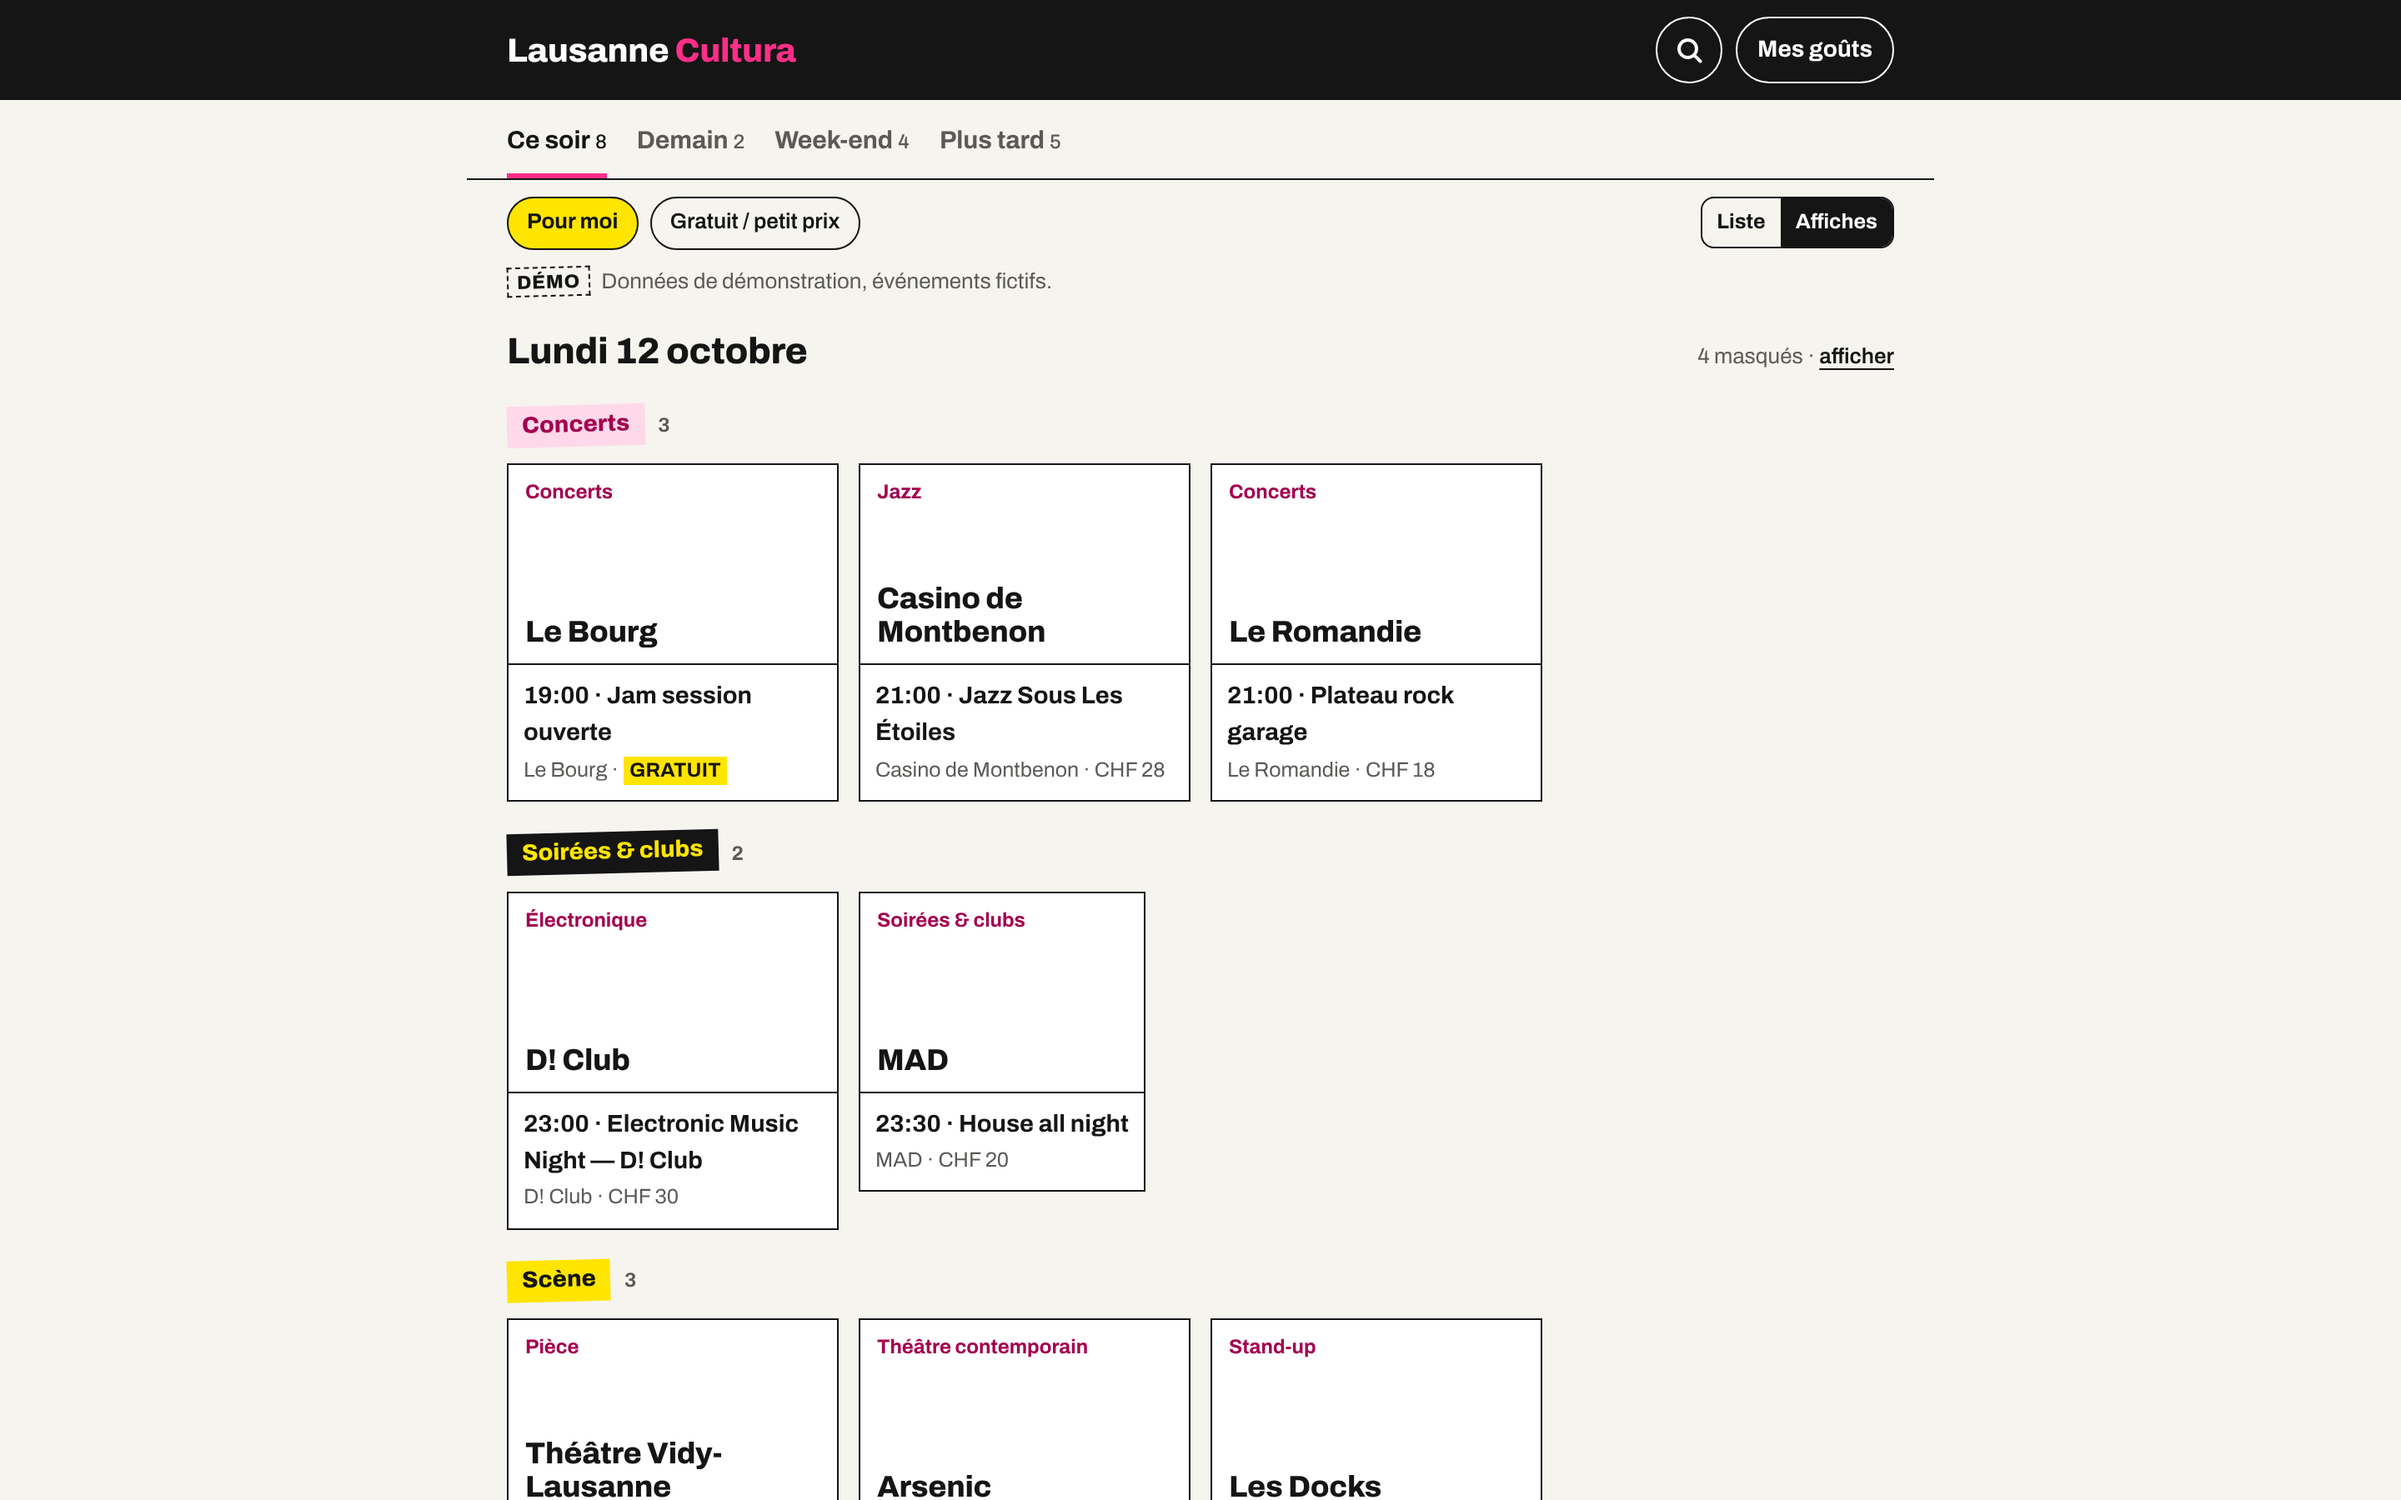
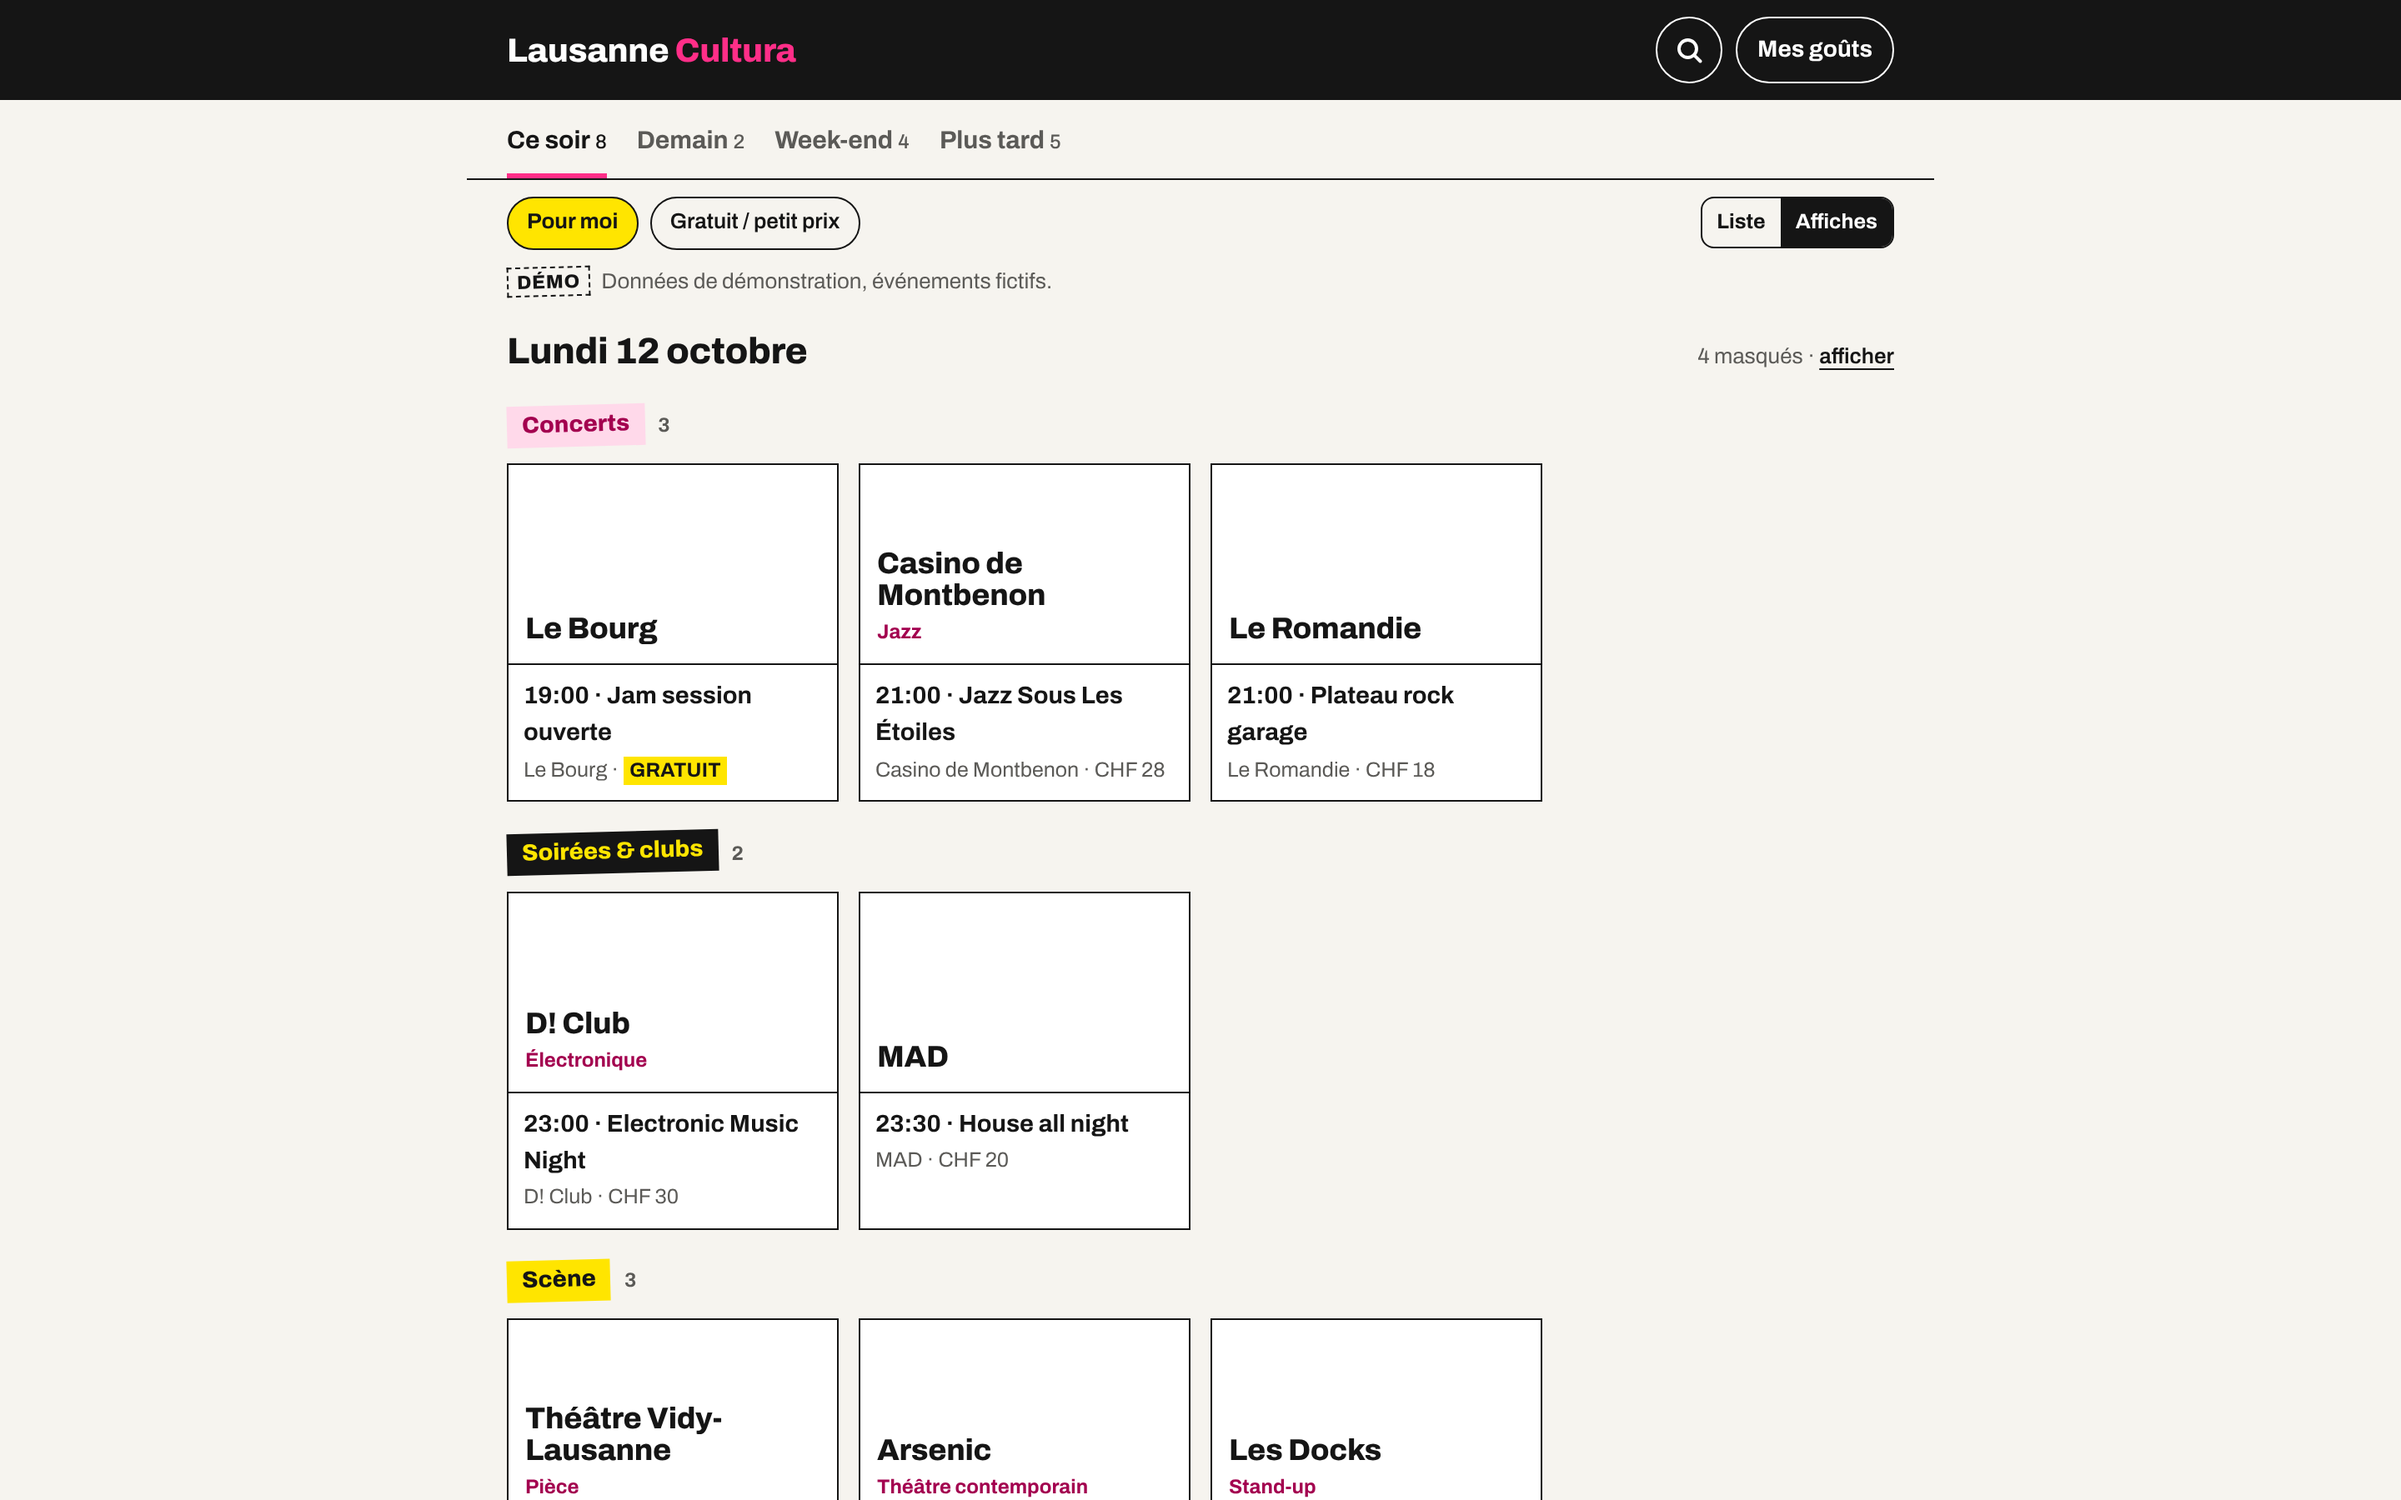
Apply finish-review fixes: tiles fill columns, no eyebrow labels, self-hosted Archivo
- Poster tiles fill their column; photo-less tiles show venue then genre,
  no repeated rubric name.
- Event sheet: rubric moved into the facts table, title leads.
- Onboarding dismiss renamed "Pas maintenant" (was the same label as a tab).
- Demo titles no longer repeat the venue.
- Archivo served from static/fonts (OFL), no Google Fonts dependency.

Claude-Session: https://claude.ai/code/session_01NBweYVRMbeyNvkuA8wfwBv

diff --git a/static/css/style.css b/static/css/style.css
@@ -1,6 +1,21 @@
 /* Lausanne Cultura : programme du moment.
    Fond clair, encre noire, barre noire, rose et jaune en étiquettes. */
 
+@font-face {
+    font-family: 'Archivo';
+    src: url('../fonts/archivo-latin.woff2') format('woff2');
+    font-weight: 400 800;
+    font-style: normal;
+    font-display: swap;
+}
+@font-face {
+    font-family: 'Archivo';
+    src: url('../fonts/archivo-italic-latin.woff2') format('woff2');
+    font-weight: 400;
+    font-style: italic;
+    font-display: swap;
+}
+
 :root {
     --ground: #f6f4ef;
     --paper: #ffffff;
@@ -235,6 +250,7 @@ ul { list-style: none; }
     gap: 10px; padding: 6px var(--gutter) 6px;
 }
 .tile {
+    width: 100%; height: 100%;
     display: flex; flex-direction: column; text-align: left;
     background: var(--paper); border: 1.5px solid var(--ink); min-width: 0;
 }
@@ -250,9 +266,9 @@ ul { list-style: none; }
 }
 .media.type {
     background: var(--paper); display: flex; flex-direction: column;
-    justify-content: space-between; padding: 8px 10px;
+    justify-content: flex-end; padding: 8px 10px 10px;
 }
-.media.type .k { display: block; font-size: 12px; font-weight: 700; color: var(--rose-ink); }
+.media.type .k { display: block; font-size: 12px; font-weight: 700; color: var(--rose-ink); margin-top: 3px; }
 .media.type .k::first-letter { text-transform: uppercase; }
 .media.type .vn { font-weight: 800; font-size: 18px; line-height: 1.1; letter-spacing: -0.01em; overflow-wrap: anywhere; }
 .tile-body { padding: 7px 9px 9px; display: block; }
@@ -328,7 +344,8 @@ ul { list-style: none; }
 .close-btn:hover { background: var(--paper); }
 
 .sheet-title, .ev-title { font-size: 24px; font-weight: 800; letter-spacing: -0.01em; line-height: 1.15; padding-right: 44px; }
-.ev-title { margin-top: 10px; }
+.ev-title { margin-top: 0; }
+.ev-facts dd .tag { font-size: 13px; }
 .sheet-lede { color: var(--muted); font-size: 14px; margin-top: 4px; }
 .sheet-sub { font-size: 15px; font-weight: 800; margin: 18px 0 8px; }
 

diff --git a/static/js/main.js b/static/js/main.js
@@ -196,10 +196,10 @@
     }
 
     function tileItem({ evt, masked }) {
-        const typeLabel = evt.subcategory && evt.subcategory.length <= 22 ? evt.subcategory : evt.rubric;
+        const genre = evt.subcategory && evt.subcategory.length <= 22 ? evt.subcategory : '';
         const typeMedia = () => h('span', { class: 'media type' },
-            h('span', { class: 'k' }, typeLabel),
-            h('span', { class: 'vn' }, venueText(evt)));
+            h('span', { class: 'vn' }, venueText(evt)),
+            genre ? h('span', { class: 'k' }, genre) : null);
         let media;
         if (evt.image) {
             const img = h('img', { src: evt.image, alt: '', loading: 'lazy', decoding: 'async' });
@@ -475,9 +475,9 @@
             : null;
 
         $('#sheet-body').replaceChildren(
-            h('span', { class: `tag ${tagClass(evt.rubric)}` }, evt.rubric),
             h('h2', { class: 'ev-title', id: 'sheet-title' }, evt.title),
             h('dl', { class: 'ev-facts' },
+                h('div', {}, h('dt', {}, 'Rubrique'), h('dd', {}, h('span', { class: `tag ${tagClass(evt.rubric)}` }, evt.rubric))),
                 h('div', {}, h('dt', {}, 'Quand'), h('dd', {}, whenText(evt))),
                 h('div', {}, h('dt', {}, 'Où'), h('dd', {},
                     hasVenue(evt) ? evt.location : h('span', { class: 'nc' }, 'Lieu non communiqué'),

diff --git a/templates/index.html b/templates/index.html
@@ -7,9 +7,7 @@
     <meta name="description" content="Que faire à Lausanne ce soir, demain ou ce week-end : concerts, soirées, scène, cinéma, expos.">
     <title>Lausanne Cultura · ce soir à Lausanne</title>
 
-    <link rel="preconnect" href="https://fonts.googleapis.com">
-    <link rel="preconnect" href="https://fonts.gstatic.com" crossorigin>
-    <link href="https://fonts.googleapis.com/css2?family=Archivo:ital,wght@0,400;0,500;0,600;0,700;0,800;1,400&display=swap" rel="stylesheet">
+    <link rel="preload" href="{{ url_for('static', filename='fonts/archivo-latin.woff2') }}" as="font" type="font/woff2" crossorigin>
 
     <link rel="stylesheet" href="{{ url_for('static', filename='css/style.css') }}">
 </head>
@@ -63,7 +61,7 @@
             <div class="choice-list" id="onboard-choices"></div>
             <div class="onboard-actions">
                 <button type="button" class="btn btn-ink" id="onboard-save">Valider</button>
-                <button type="button" class="text-btn" id="onboard-skip">Plus tard</button>
+                <button type="button" class="text-btn" id="onboard-skip">Pas maintenant</button>
             </div>
         </section>
 

diff --git a/seed_data.py b/seed_data.py
@@ -24,7 +24,7 @@ DEMO_EVENTS: list[dict] = [
     },
     {
         "id": "evt002",
-        "title": "Hamlet — Théâtre de Vidy",
+        "title": "Hamlet",
         "day": 0, "time": "19:30", "until": None,
         "location": "Théâtre Vidy-Lausanne",
         "address": "Avenue E.-H. Jaques-Dalcroze 5, 1007 Lausanne",
@@ -119,7 +119,7 @@ DEMO_EVENTS: list[dict] = [
     },
     {
         "id": "evt010",
-        "title": "Photo Elysée — Regards sur l'Afrique",
+        "title": "Regards sur l'Afrique",
         "day": -10, "time": "10:00", "until": 45,
         "location": "Photo Elysée",
         "address": "Place de la Gare 17, 1003 Lausanne",
@@ -178,7 +178,7 @@ DEMO_EVENTS: list[dict] = [
     },
     {
         "id": "evt015",
-        "title": "Open Air Cinéma — Plage de Vidy",
+        "title": "Open Air Cinéma",
         "day": 25, "time": "21:30", "until": None,
         "location": "Plage de Vidy",
         "address": "Route de Vidy, 1007 Lausanne",
@@ -213,7 +213,7 @@ DEMO_EVENTS: list[dict] = [
     },
     {
         "id": "evt018",
-        "title": "MCBA — Figures de l'Abstraction",
+        "title": "Figures de l'Abstraction",
         "day": -30, "time": "10:00", "until": 40,
         "location": "Musée Cantonal des Beaux-Arts",
         "address": "Plateforme 10, Place de la Gare 16, 1003 Lausanne",
@@ -237,7 +237,7 @@ DEMO_EVENTS: list[dict] = [
     },
     {
         "id": "evt020",
-        "title": "Pique-nique Musical — Parc de l'Hermitage",
+        "title": "Pique-nique musical",
         "day": 6, "time": "13:00", "until": None,
         "location": "Parc de l'Hermitage",
         "address": "Route du Signal 2, 1010 Lausanne",
@@ -249,7 +249,7 @@ DEMO_EVENTS: list[dict] = [
     },
     {
         "id": "evt021",
-        "title": "Electronic Music Night — D! Club",
+        "title": "Electronic Music Night",
         "day": 0, "time": "23:00", "until": None,
         "location": "D! Club",
         "address": "Place Centrale 22, 1003 Lausanne",
@@ -297,7 +297,7 @@ DEMO_EVENTS: list[dict] = [
     },
     {
         "id": "evt025",
-        "title": "La Traviata — Opéra de Lausanne",
+        "title": "La Traviata",
         "day": 4, "time": "19:30", "until": None,
         "location": "Opéra de Lausanne",
         "address": "Avenue du Théâtre 12, 1005 Lausanne",

diff --git a/static/fonts/README.md b/static/fonts/README.md
@@ -1,0 +1,6 @@
+# Polices
+
+`archivo-latin.woff2` (graisses 400 à 800, variable) et `archivo-italic-latin.woff2` (italique 400) :
+Archivo, Omnibus-Type, sous licence SIL Open Font License 1.1.
+Source : Google Fonts (fonts.gstatic.com/s/archivo/v25), sous-ensemble « latin », téléchargé le 12.10.2026.
+Hébergées par le site pour ne pas dépendre de fonts.googleapis.com.
